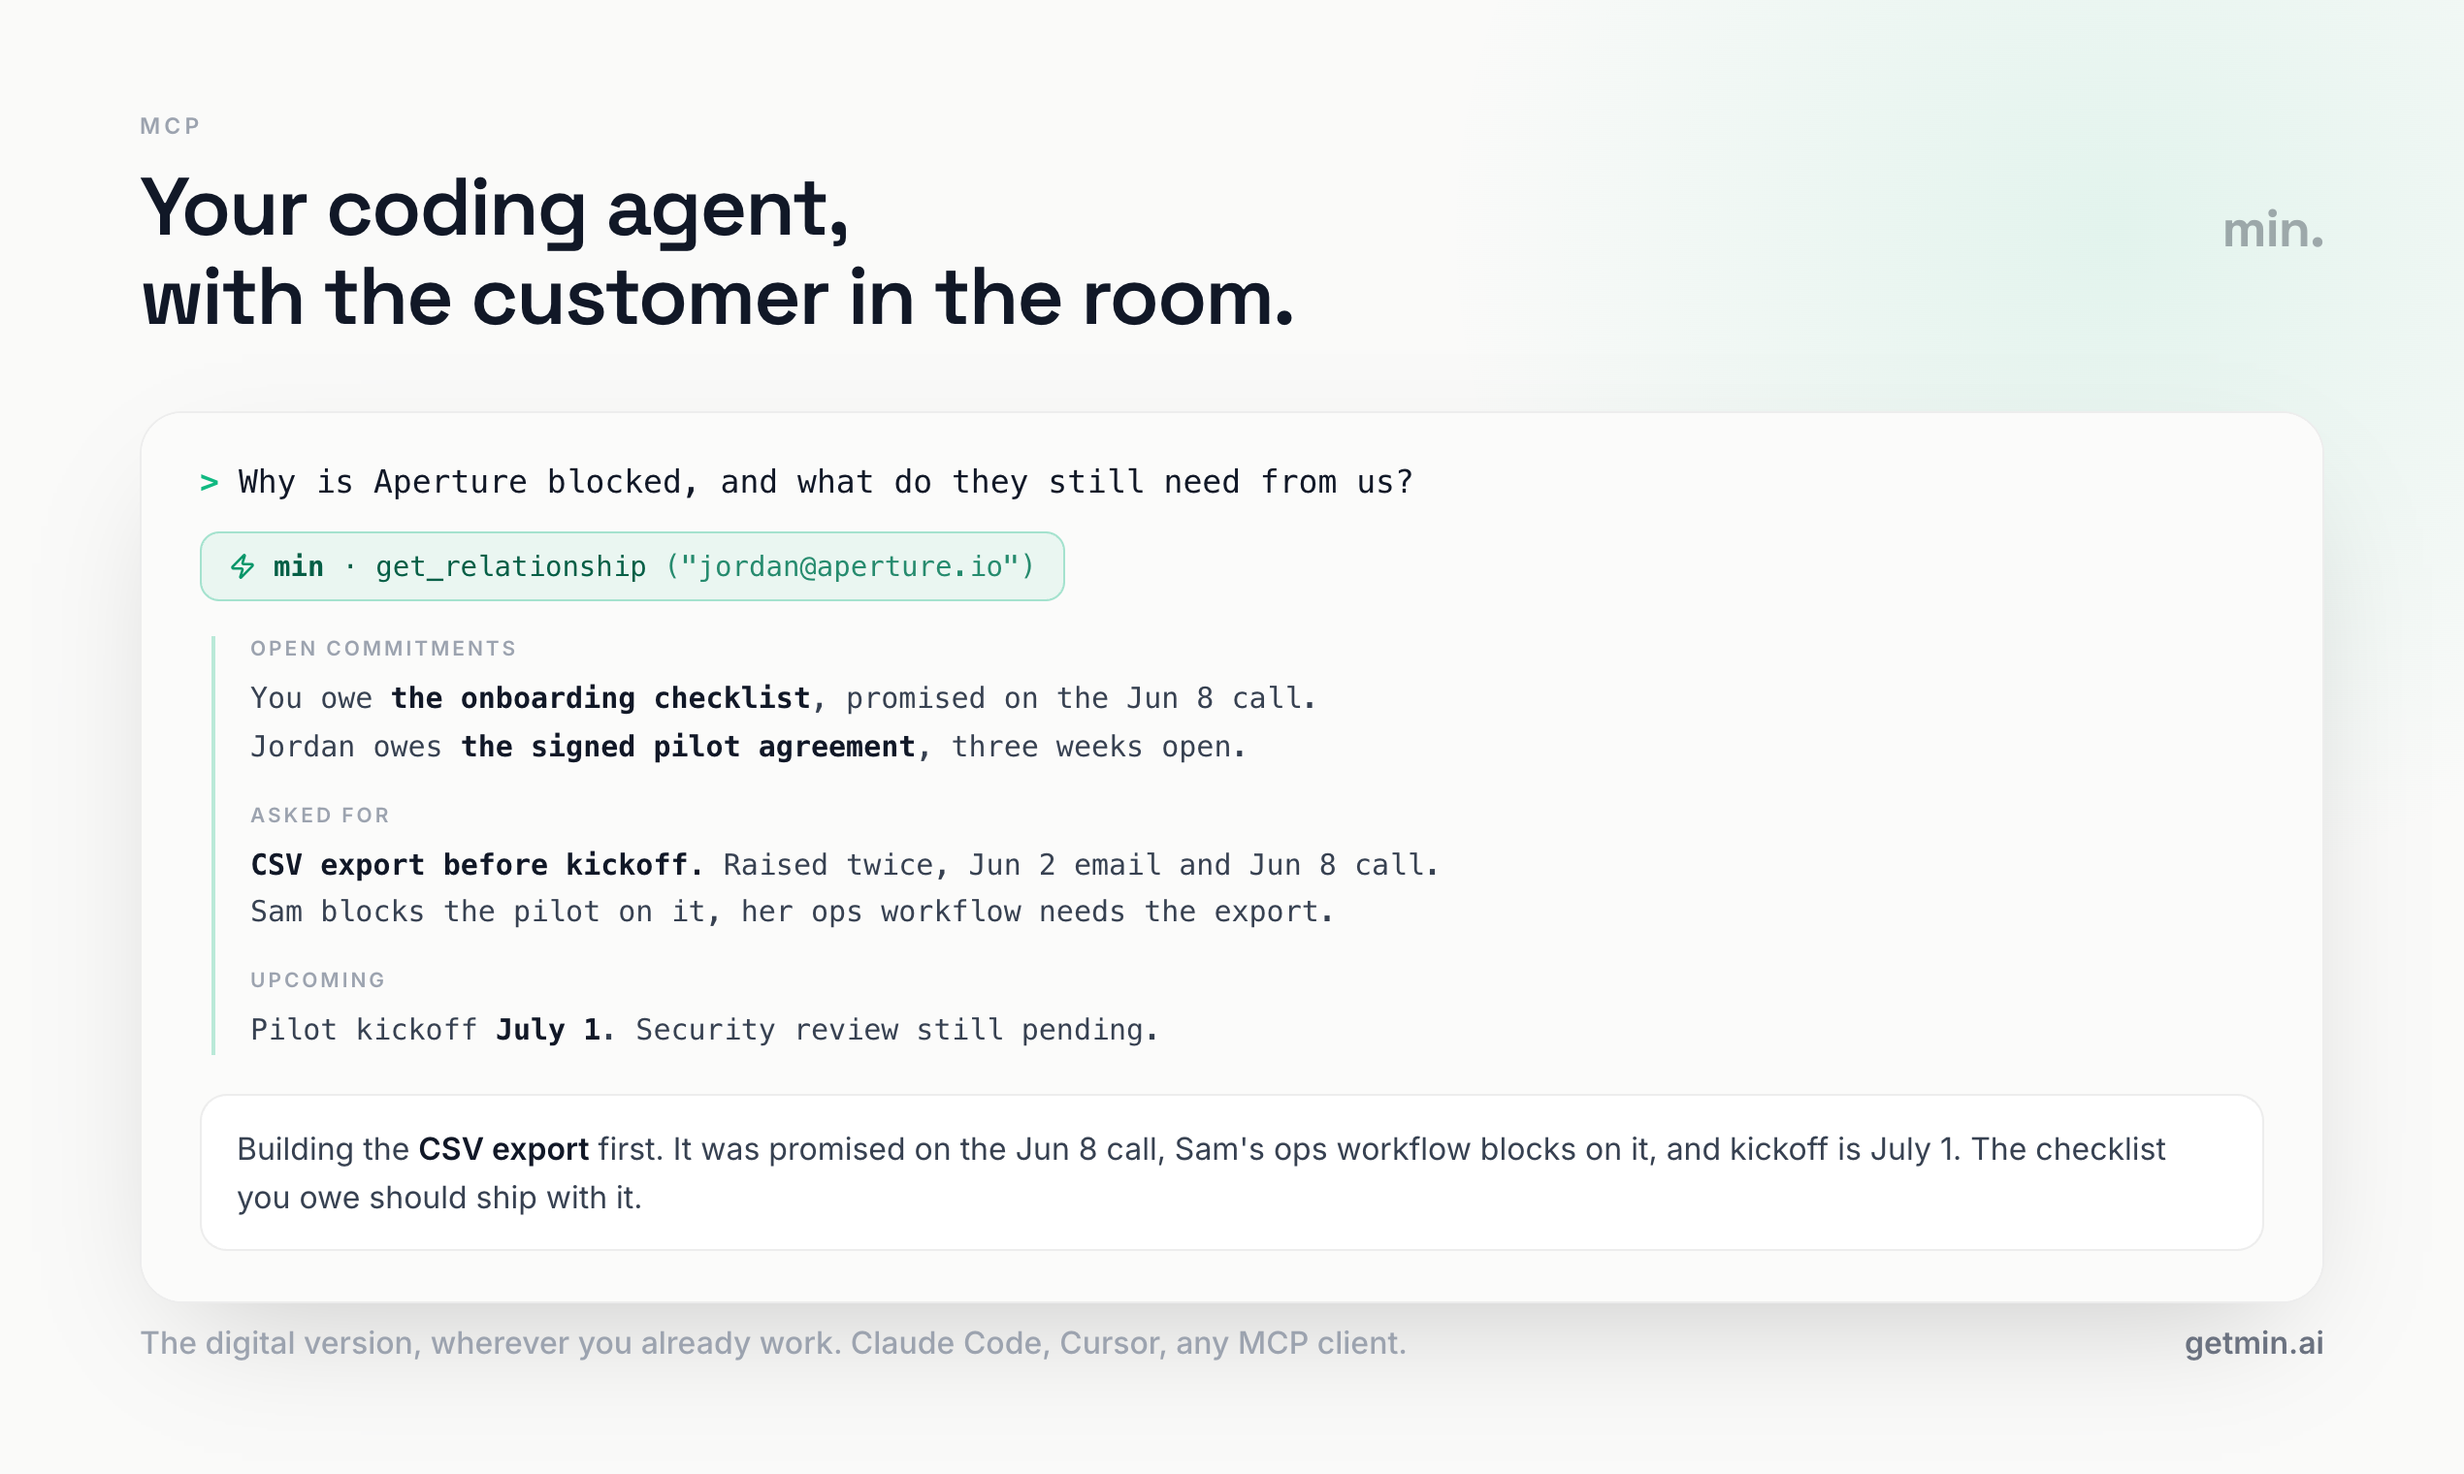
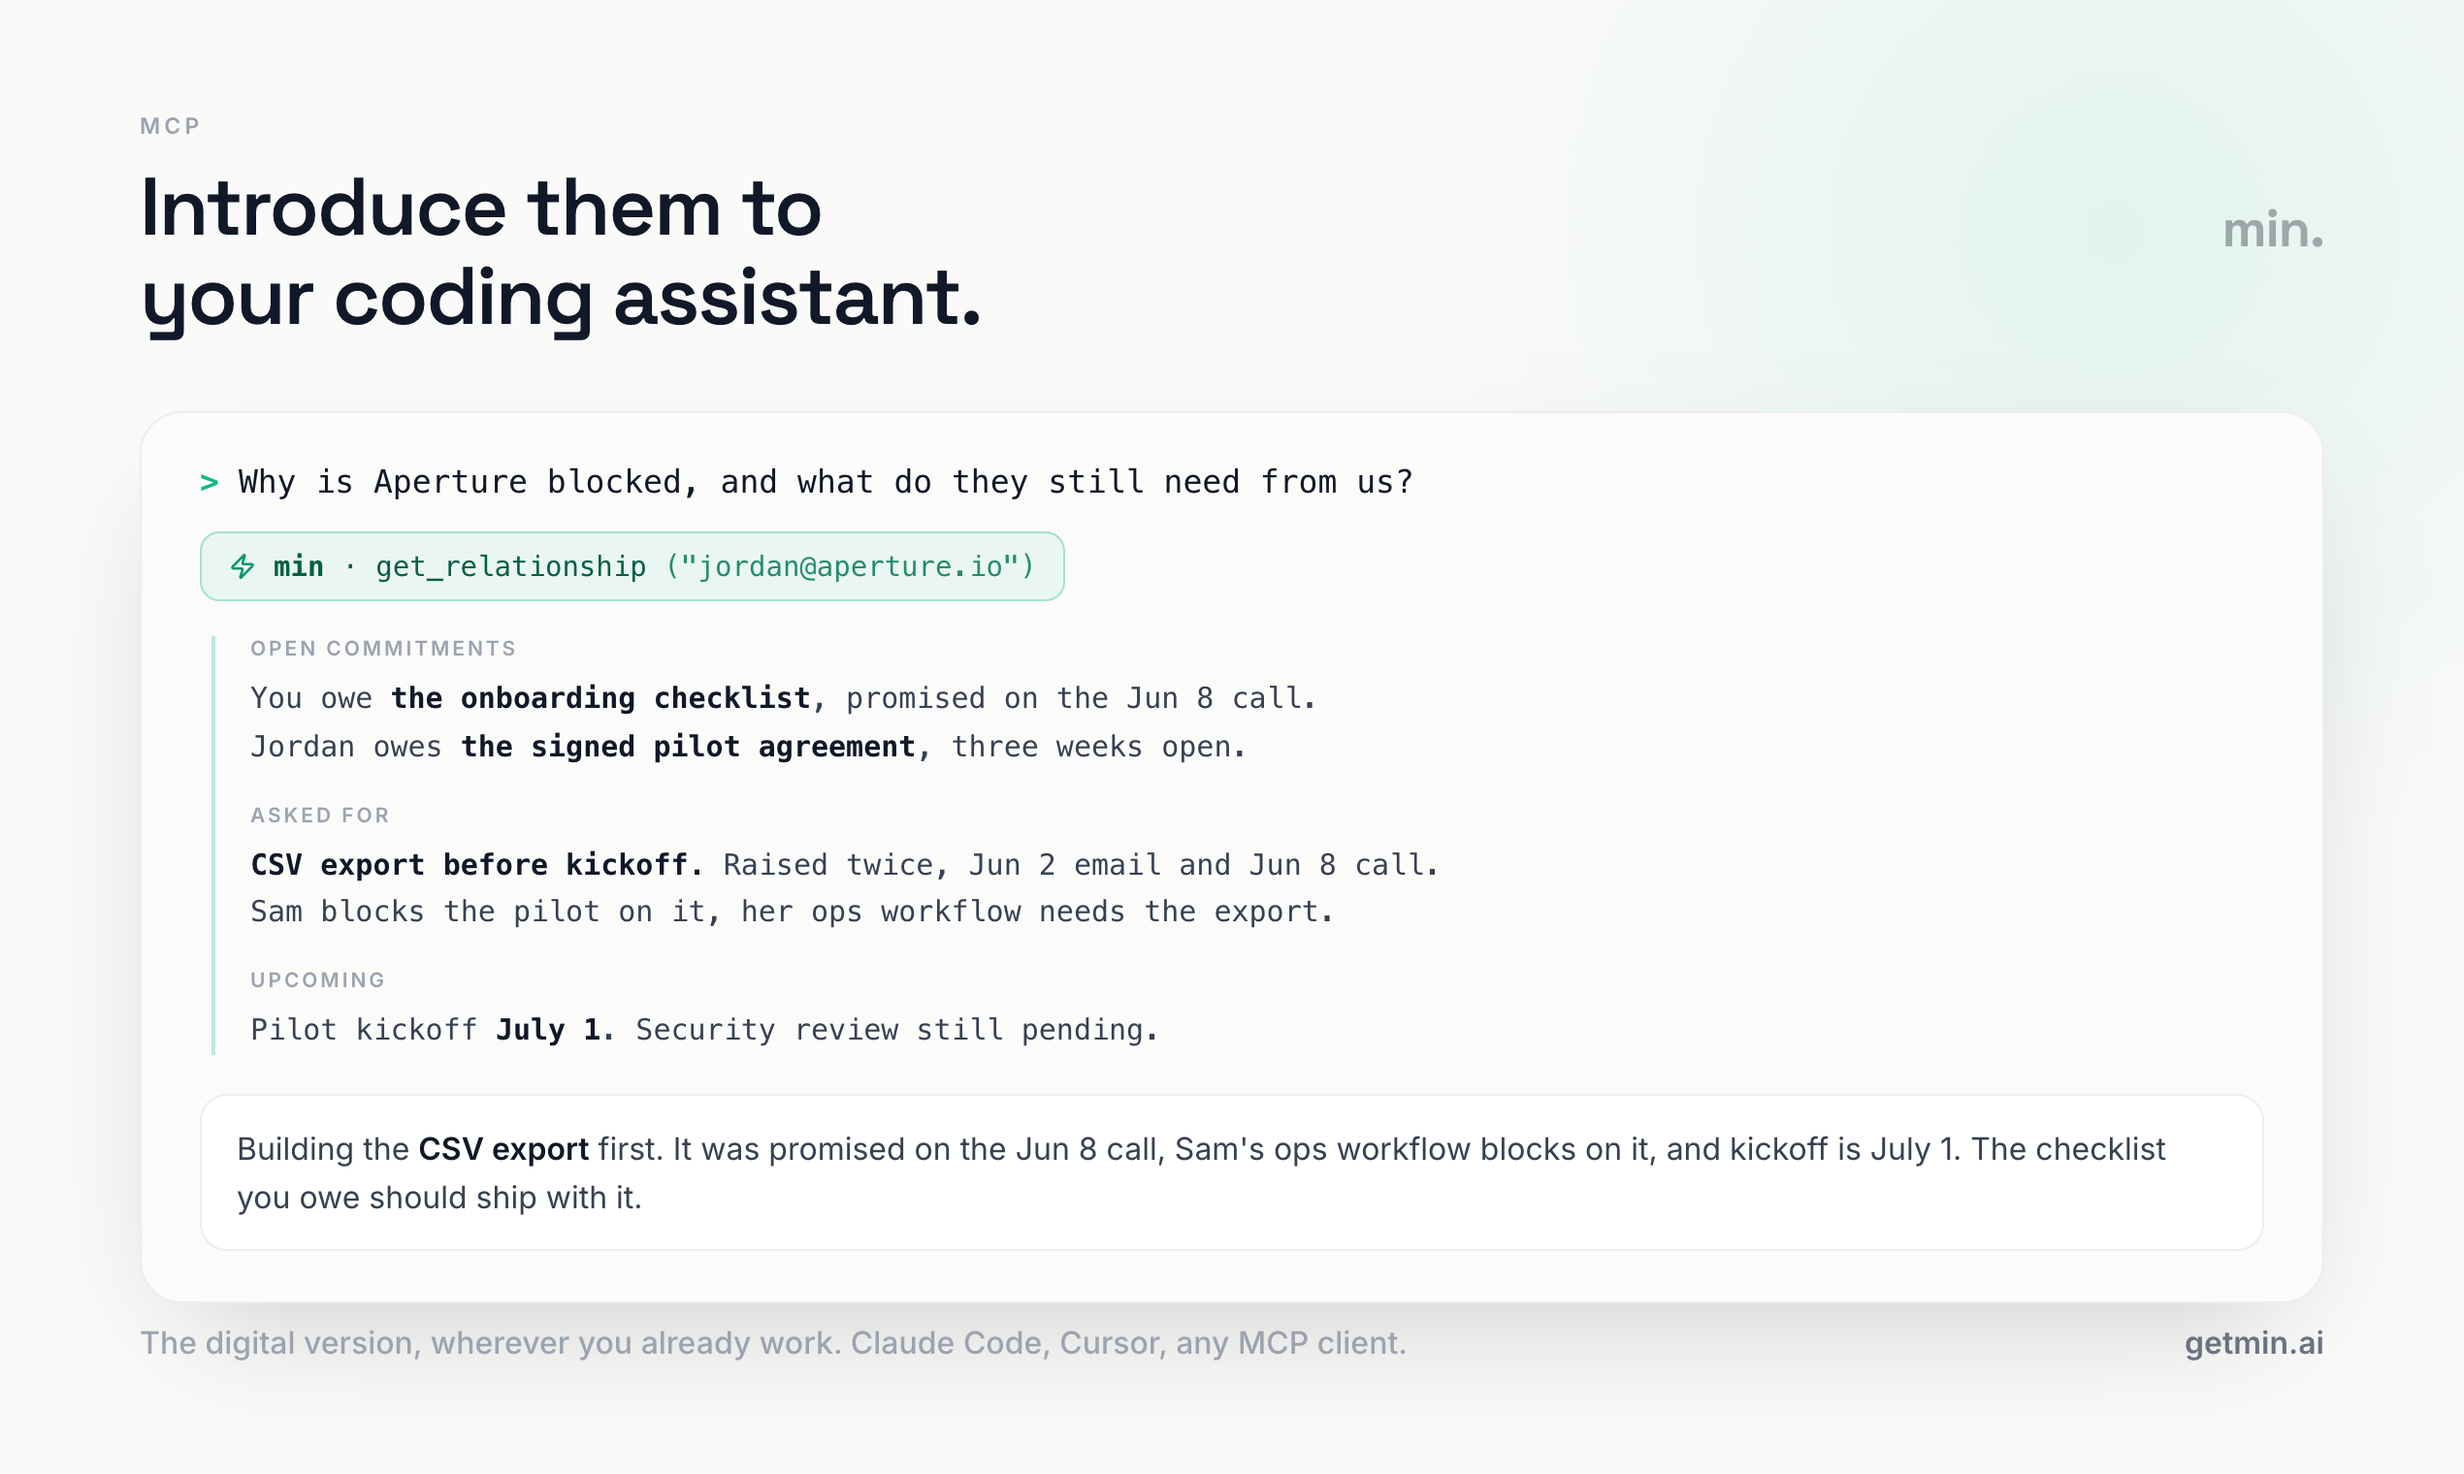
Introduce them to your coding assistant
"Your coding agent, with the customer in the room" was a good line for a slide
standing on its own. It is the wrong line for slide five of six, because it
introduces a new metaphor at the point where the gallery should be paying off
the one it opened with.

"Introduce them to your coding assistant" points at the digital versions slides
one and two just established. The gallery now reads as a single argument rather
than six adjacent features: here is what it builds, here is one, it builds
itself, it acts, now hand them to your agent, here they all are.

The eyebrow stays MCP. It is the credibility marker for the only audience that
reads this slide closely.

Changed region(s): [[0.0622, 0.1237, 0.5287, 0.2474]]

diff --git a/scripts/ph-slides.html b/scripts/ph-slides.html
@@ -364,7 +364,7 @@
   <div class="top">
     <div>
       <div class="eyebrow" style="margin-bottom:12px;">MCP</div>
-      <h2>Your coding agent,<br/>with the customer in the room.</h2>
+      <h2>Introduce them to<br/>your coding assistant.</h2>
     </div>
     <div class="wordmark" style="opacity:0.35;">min.</div>
   </div>
